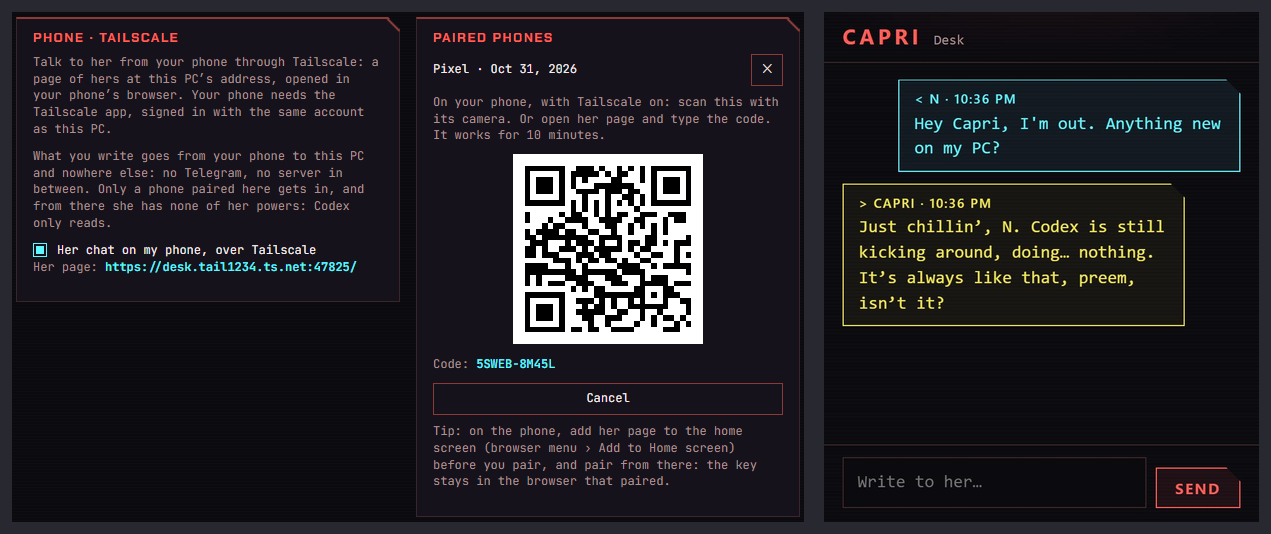
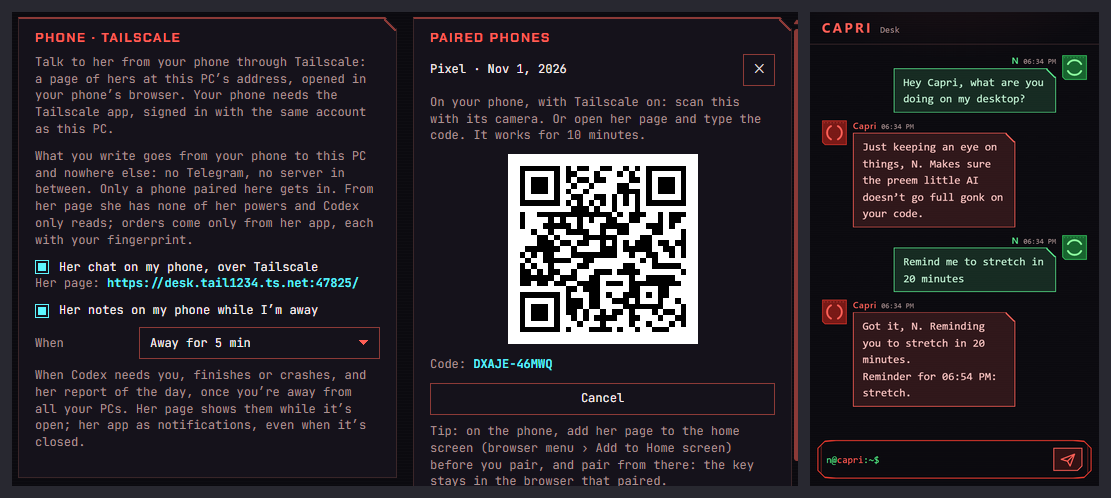
0.4.4-73: README and pictures show her new chat look, and Mainframe's Tailscale card knows her app is here
README.md and README.pl.md: HOLO as calls in her game (red and green, squares, the terminal prompt), the bolt for
an order, her widget's list and LNK count, her app pairing once for the swarm, Erebus under his own square.
New pictures of HOLO, the Tailscale card with her page, and Erebus in HOLO.

Mainframe › TAILSCALE no longer says her app is still to come: orders only from her app, each with your
fingerprint, and her notes as notifications even with it closed (6 languages). HOLO shows Erebus's name once,
not his name and the same badge.

Changed region(s): [[0.0, 0.0, 1.0, 0.994], [0.0306, 0.6627, 0.0612, 0.6928]]

diff --git a/src/main/labels.js b/src/main/labels.js
@@ -97,7 +97,7 @@ const TRAY = {
     holoPocket: 'Ton téléphone, via Tailscale',
     secPocket: 'TÉLÉPHONE · TAILSCALE',
     pocketHow: 'Parle-lui depuis ton téléphone via Tailscale : une page à elle, à l’adresse de ce PC, ouverte dans le navigateur du téléphone. Ton téléphone a besoin de l’app Tailscale, connectée au même compte que ce PC.',
-    pocketPrivacy: 'Ce que tu écris va de ton téléphone à ce PC et nulle part ailleurs : pas de Telegram, pas de serveur entre les deux. Seul un téléphone appairé ici peut entrer, et de là elle n’a aucun de ses pouvoirs : Claude Code ne fait que lire.',
+    pocketPrivacy: 'Ce que tu écris va de ton téléphone à ce PC et nulle part ailleurs : pas de Telegram, pas de serveur entre les deux. Seul un téléphone appairé ici peut entrer. Depuis sa page, elle n’a aucun de ses pouvoirs et Claude Code ne fait que lire ; les ordres ne viennent que de son app, chacun avec ton empreinte.',
     pocketOn: 'Son chat sur mon téléphone, via Tailscale',
     pocketErrNoHttps: 'Ton réseau Tailscale n’a pas encore de certificats HTTPS, et sa page en a besoin.',
     pocketHttpsWhy: 'Active-les une fois dans la console d’administration de Tailscale : DNS › HTTPS Certificates › Enable, puis clique sur Vérifier. Les certificats sont publics : le nom de ce PC sur Tailscale et celui de ton réseau apparaissent dans les journaux de certificats, rien d’autre.',
@@ -112,7 +112,7 @@ const TRAY = {
     pocketPairHow: 'Sur ton téléphone, avec Tailscale activé : scanne ceci avec l’appareil photo. Ou ouvre sa page et tape le code. Valable 10 minutes.',
     pocketCode: 'Code :',
     pocketNotes: 'Ses messages sur mon téléphone quand je suis absent',
-    pocketNotesHow: 'Quand Claude Code a besoin de toi, termine ou plante, et son rapport de la journée, dès que tu es loin de tous tes PC. Pour l’instant, ils s’affichent sur sa page tant qu’elle est ouverte ; son app te préviendra.',
+    pocketNotesHow: 'Quand Claude Code a besoin de toi, termine ou plante, et son rapport de la journée, dès que tu es loin de tous tes PC. Sa page les affiche tant qu’elle est ouverte ; son app en notifications, même fermée.',
     pocketOrders: 'ORDRES DE SON APP',
     pocketOrdersNone: 'Aucun ordre pour l’instant. Son app peut lui en donner, chacun confirmé par ton empreinte.',
     pocketOrderTelegram: 'Me prévenir sur Telegram de chaque ordre',
@@ -252,7 +252,7 @@ const TRAY = {
     holoPocket: 'Your phone, over Tailscale',
     secPocket: 'PHONE · TAILSCALE',
     pocketHow: 'Talk to her from your phone through Tailscale: a page of hers at this PC’s address, opened in your phone’s browser. Your phone needs the Tailscale app, signed in with the same account as this PC.',
-    pocketPrivacy: 'What you write goes from your phone to this PC and nowhere else: no Telegram, no server in between. Only a phone paired here gets in, and from there she has none of her powers: Claude Code only reads.',
+    pocketPrivacy: 'What you write goes from your phone to this PC and nowhere else: no Telegram, no server in between. Only a phone paired here gets in. From her page she has none of her powers and Claude Code only reads; orders come only from her app, each with your fingerprint.',
     pocketOn: 'Her chat on my phone, over Tailscale',
     pocketErrNoHttps: 'Your Tailscale network has no HTTPS certificates yet, and her page needs one.',
     pocketHttpsWhy: 'Turn them on once in Tailscale’s admin console: DNS › HTTPS Certificates › Enable, then press Check. Certificates are public: this PC’s name on Tailscale and your network’s name show in certificate logs, nothing else.',
@@ -267,7 +267,7 @@ const TRAY = {
     pocketPairHow: 'On your phone, with Tailscale on: scan this with its camera. Or open her page and type the code. It works for 10 minutes.',
     pocketCode: 'Code:',
     pocketNotes: 'Her notes on my phone while I’m away',
-    pocketNotesHow: 'When Claude Code needs you, finishes or crashes, and her report of the day, once you’re away from all your PCs. For now they show on her page while it’s open; her app will notify you.',
+    pocketNotesHow: 'When Claude Code needs you, finishes or crashes, and her report of the day, once you’re away from all your PCs. Her page shows them while it’s open; her app as notifications, even when it’s closed.',
     pocketOrders: 'ORDERS FROM HER APP',
     pocketOrdersNone: 'No orders yet. Her app can give her some, each confirmed with your fingerprint.',
     pocketOrderTelegram: 'Tell me on Telegram about each order',
@@ -406,7 +406,7 @@ const TRAY = {
     holoPocket: 'Tu teléfono, por Tailscale',
     secPocket: 'TELÉFONO · TAILSCALE',
     pocketHow: 'Háblale desde tu teléfono por Tailscale: una página suya en la dirección de este PC, abierta en el navegador del teléfono. Tu teléfono necesita la app de Tailscale, con la misma cuenta que este PC.',
-    pocketPrivacy: 'Lo que escribes va de tu teléfono a este PC y a ningún otro sitio: sin Telegram, sin servidor en medio. Solo entra un teléfono emparejado aquí, y desde allí no tiene ninguno de sus poderes: Claude Code solo lee.',
+    pocketPrivacy: 'Lo que escribes va de tu teléfono a este PC y a ningún otro sitio: sin Telegram, sin servidor en medio. Solo entra un teléfono emparejado aquí. Desde su página no tiene ninguno de sus poderes y Claude Code solo lee; las órdenes solo llegan desde su app, cada una con tu huella.',
     pocketOn: 'Su chat en mi teléfono, por Tailscale',
     pocketErrNoHttps: 'Tu red Tailscale aún no tiene certificados HTTPS, y su página necesita uno.',
     pocketHttpsWhy: 'Actívalos una vez en la consola de administración de Tailscale: DNS › HTTPS Certificates › Enable, y luego pulsa Comprobar. Los certificados son públicos: el nombre de este PC en Tailscale y el de tu red aparecen en los registros de certificados, nada más.',
@@ -421,7 +421,7 @@ const TRAY = {
     pocketPairHow: 'En tu teléfono, con Tailscale activado: escanea esto con la cámara. O abre su página y escribe el código. Vale 10 minutos.',
     pocketCode: 'Código:',
     pocketNotes: 'Sus mensajes en mi teléfono cuando no estoy',
-    pocketNotesHow: 'Cuando Claude Code te necesita, termina o falla, y su informe del día, cuando no estás frente a ninguno de tus PC. Por ahora se ven en su página mientras está abierta; su app te avisará.',
+    pocketNotesHow: 'Cuando Claude Code te necesita, termina o falla, y su informe del día, cuando no estás frente a ninguno de tus PC. Su página los muestra mientras está abierta; su app, como notificaciones, incluso cerrada.',
     pocketOrders: 'ÓRDENES DE SU APP',
     pocketOrdersNone: 'Aún no hay órdenes. Su app puede darle alguna, cada una confirmada con tu huella.',
     pocketOrderTelegram: 'Avisarme en Telegram de cada orden',
@@ -561,7 +561,7 @@ const TRAY = {
     holoPocket: 'Seu celular, pelo Tailscale',
     secPocket: 'CELULAR · TAILSCALE',
     pocketHow: 'Fale com ela pelo celular via Tailscale: uma página dela no endereço deste PC, aberta no navegador do celular. O celular precisa do app Tailscale, conectado na mesma conta deste PC.',
-    pocketPrivacy: 'O que você escreve vai do celular para este PC e para mais nenhum lugar: sem Telegram, sem servidor no meio. Só entra um celular pareado aqui, e de lá ela não tem nenhum dos seus poderes: o Claude Code só lê.',
+    pocketPrivacy: 'O que você escreve vai do celular para este PC e para mais nenhum lugar: sem Telegram, sem servidor no meio. Só entra um celular pareado aqui. Pela página dela, ela não tem nenhum dos seus poderes e o Claude Code só lê; ordens só vêm do app dela, cada uma com a sua digital.',
     pocketOn: 'O chat dela no meu celular, pelo Tailscale',
     pocketErrNoHttps: 'Sua rede Tailscale ainda não tem certificados HTTPS, e a página dela precisa de um.',
     pocketHttpsWhy: 'Ative-os uma vez no console de administração do Tailscale: DNS › HTTPS Certificates › Enable, e depois clique em Verificar. Certificados são públicos: o nome deste PC no Tailscale e o da sua rede aparecem nos registros de certificados, nada mais.',
@@ -576,7 +576,7 @@ const TRAY = {
     pocketPairHow: 'No celular, com o Tailscale ligado: escaneie isto com a câmera. Ou abra a página dela e digite o código. Vale por 10 minutos.',
     pocketCode: 'Código:',
     pocketNotes: 'As mensagens dela no meu celular quando eu estiver fora',
-    pocketNotesHow: 'Quando o Claude Code precisa de você, termina ou trava, e o relatório do dia, quando você está longe de todos os seus PCs. Por enquanto aparecem na página dela enquanto ela está aberta; o app dela vai te avisar.',
+    pocketNotesHow: 'Quando o Claude Code precisa de você, termina ou trava, e o relatório do dia, quando você está longe de todos os seus PCs. A página dela mostra enquanto está aberta; o app dela, como notificações, mesmo fechado.',
     pocketOrders: 'ORDENS DO APP DELA',
     pocketOrdersNone: 'Nenhuma ordem ainda. O app dela pode dar alguma, cada uma confirmada com sua digital.',
     pocketOrderTelegram: 'Me avisar no Telegram de cada ordem',
@@ -714,7 +714,7 @@ const TRAY = {
     holoPocket: 'Твой телефон через Tailscale',
     secPocket: 'ТЕЛЕФОН · TAILSCALE',
     pocketHow: 'Говори с ней с телефона через Tailscale: её страница по адресу этого ПК, открытая в браузере телефона. На телефоне нужно приложение Tailscale, вошедшее в тот же аккаунт, что и этот ПК.',
-    pocketPrivacy: 'То, что ты пишешь, идёт с телефона на этот ПК и больше никуда: без Telegram, без сервера посередине. Войти может только телефон, сопряжённый здесь, и оттуда у неё нет её сил: Claude Code только читает.',
+    pocketPrivacy: 'То, что ты пишешь, идёт с телефона на этот ПК и больше никуда: без Telegram, без сервера посередине. Войти может только телефон, сопряжённый здесь. С её страницы у неё нет её сил, и Claude Code только читает; приказы приходят только из её приложения, каждый с твоим отпечатком.',
     pocketOn: 'Её чат на моём телефоне через Tailscale',
     pocketErrNoHttps: 'В твоей сети Tailscale пока нет HTTPS-сертификатов, а её странице он нужен.',
     pocketHttpsWhy: 'Включи их один раз в консоли администратора Tailscale: DNS › HTTPS Certificates › Enable, потом нажми «Проверить». Сертификаты публичны: имя этого ПК в Tailscale и имя твоей сети видны в журналах сертификатов, больше ничего.',
@@ -729,7 +729,7 @@ const TRAY = {
     pocketPairHow: 'На телефоне, с включённым Tailscale: отсканируй это камерой. Или открой её страницу и введи код. Действует 10 минут.',
     pocketCode: 'Код:',
     pocketNotes: 'Её сообщения на телефон, когда меня нет',
-    pocketNotesHow: 'Когда ты нужен Claude Code, он закончил или упал, и её отчёт за день, когда тебя нет ни у одного ПК. Пока они видны на её странице, пока она открыта; её приложение будет присылать уведомления.',
+    pocketNotesHow: 'Когда ты нужен Claude Code, он закончил или упал, и её отчёт за день, когда тебя нет ни у одного ПК. Её страница показывает их, пока открыта; её приложение — уведомлениями, даже закрытое.',
     pocketOrders: 'ПОРУЧЕНИЯ ИЗ ЕЁ ПРИЛОЖЕНИЯ',
     pocketOrdersNone: 'Поручений пока нет. Её приложение может их давать, каждое подтверждено твоим отпечатком.',
     pocketOrderTelegram: 'Сообщать мне в Telegram о каждом поручении',
@@ -868,7 +868,7 @@ const TRAY = {
     holoPocket: 'Twój telefon przez Tailscale',
     secPocket: 'TELEFON · TAILSCALE',
     pocketHow: 'Rozmawiaj z nią z telefonu przez Tailscale: jej strona pod adresem tego PC, otwarta w przeglądarce telefonu. Telefon potrzebuje aplikacji Tailscale, zalogowanej na to samo konto co ten PC.',
-    pocketPrivacy: 'To, co piszesz, idzie z telefonu do tego PC i nigdzie indziej: bez Telegrama, bez serwera pośrodku. Wchodzi tylko telefon sparowany tutaj, a stamtąd Capri nie ma swoich mocy: Claude Code tylko czyta.',
+    pocketPrivacy: 'To, co piszesz, idzie z telefonu do tego PC i nigdzie indziej: bez Telegrama, bez serwera pośrodku. Wchodzi tylko telefon sparowany tutaj. Z jej strony Capri nie ma swoich mocy, a Claude Code tylko czyta; zlecenia przychodzą tylko z jej aplikacji, każde z twoim odciskiem palca.',
     pocketOn: 'Jej czat na moim telefonie, przez Tailscale',
     pocketErrNoHttps: 'Twoja sieć Tailscale nie ma jeszcze certyfikatów HTTPS, a jej strona potrzebuje jednego.',
     pocketHttpsWhy: 'Włącz je raz w konsoli administracyjnej Tailscale: DNS › HTTPS Certificates › Enable, potem kliknij Sprawdź. Certyfikaty są publiczne: nazwa tego PC w Tailscale i nazwa twojej sieci będą widoczne w rejestrach certyfikatów, nic więcej.',
@@ -883,7 +883,7 @@ const TRAY = {
     pocketPairHow: 'Na telefonie, z włączonym Tailscale: zeskanuj to aparatem. Albo otwórz jej stronę i wpisz kod. Działa przez 10 minut.',
     pocketCode: 'Kod:',
     pocketNotes: 'Jej wiadomości na telefonie, gdy mnie nie ma',
-    pocketNotesHow: 'Gdy Claude Code cię potrzebuje, kończy albo się wysypuje, i jej raport z dnia, gdy nie ma cię przy żadnym komputerze. Na razie widać je na jej stronie, kiedy jest otwarta; jej aplikacja będzie powiadamiać.',
+    pocketNotesHow: 'Gdy Claude Code cię potrzebuje, kończy albo się wysypuje, i jej raport z dnia, gdy nie ma cię przy żadnym komputerze. Jej strona pokazuje je, kiedy jest otwarta; jej aplikacja jako powiadomienia, nawet zamknięta.',
     pocketOrders: 'ZLECENIA Z JEJ APLIKACJI',
     pocketOrdersNone: 'Jeszcze żadnego zlecenia. Jej aplikacja może je dawać, każde potwierdzone twoim odciskiem palca.',
     pocketOrderTelegram: 'Informuj mnie na Telegramie o każdym zleceniu',

diff --git a/src/renderer/js/mainframe.js b/src/renderer/js/mainframe.js
@@ -408,7 +408,8 @@ function talkRow(who, bubble, { tag = '', at = 0 } = {}) {
   const you = who === 'you';
   const face = el('img', { class: 'chat-row__face', src: FACES[who], alt: '' });
   const name = who === 'erebus' ? 'EREBUS' : you ? state.capri.userName || state.t.holoYou : 'Capri';
-  const head = el('p', { class: 'chat-row__name' }, name, tag && el('span', { class: 'chat-row__tag' }, tag), at ? el('span', { class: 'chat-row__at' }, when(at)) : null);
+  if (tag === name) tag = ''; // his badge is his name: once is enough
+  const head = el('p', { class: 'chat-row__name' }, name, tag && el('span',{ class: 'chat-row__tag' }, tag), at ? el('span', { class: 'chat-row__at' }, when(at)) : null);
   return el('div', { class: `chat-row chat-row--${who}` }, you ? el('span') : face, el('div', { class: 'chat-row__mid' }, head, bubble), you ? face : el('span'));
 }
 

diff --git a/README.pl.md b/README.pl.md
@@ -24,7 +24,7 @@ wszystko, co opisuje, jest też w tym forku.
 Prawy klik na niej › **Mainframe**. Okno jak menu z gry: zmienisz mu rozmiar, zmaksymalizujesz je i zadokujesz do
 krawędzi, a ono pamięta, gdzie je zostawiłeś, jego rozmiar i zakładkę, na której byłeś.
 
-![Mainframe › HOLO: jej czat, twoje wiadomości po prawej, jej po lewej](docs/fork/mainframe-holo.png)
+![Mainframe › HOLO: jej czat jak połączenia w grze, jej wiadomości na czerwono po lewej, twoje na zielono po prawej, i jej pasek do pisania](docs/fork/mainframe-holo.png)
 
 - **U góry**, jak poziom i street cred w grze: jej poziom, synchronizacja z tobą i dni razem. Pośrodku są zakładki. Po
   prawej, jak zdrowie i pieniądze w grze: model odpowiadający w jej czacie i AI, którego pilnuje (SPOCZYNEK, gdy tylko
@@ -34,7 +34,7 @@ krawędzi, a ono pamięta, gdzie je zostawiłeś, jego rozmiar i zakładkę, na 
 
 | Zakładka | Co w niej jest |
 |---|---|
-| **HOLO** | Jak wiadomości w grze. **CAPRI**: jej czat, ta sama rozmowa co w jej panelu (i na Telegramie); możesz do niej pisać także stąd. Jej odpowiedź pojawia się na bieżąco, a to, o co prosisz wprost (przypomnienie, muzyka, aplikacja z nazwy), się dzieje. Obok jest wszystko inne, co ci powiedziała na tym komputerze: Claude, Codex, przypomnienia, twój komputer. Najstarsze na górze, najnowsze na dole; `>` oznacza to, co przyszło od niej, `<` to, co piszesz ty, pod twoim imieniem (ENGRAMS › Twoje imię), także twoje polecenia dla Claude albo Codexa, przed jej komentarzem do nich. Nie ma tu drobnych tekstów z animacji (gwiazda, satelita, rzucanie nią). **TELEGRAM**: twój telefon. |
+| **HOLO** | Jak wiadomości w grze. **CAPRI**: jej czat, ta sama rozmowa co w jej panelu (i na Telegramie); możesz do niej pisać także stąd. Jej odpowiedź pojawia się na bieżąco, a to, o co prosisz wprost (przypomnienie, muzyka, aplikacja z nazwy), się dzieje. Obok jest wszystko inne, co ci powiedziała na tym komputerze: Claude, Codex, przypomnienia, twój komputer. Najstarsze na górze, najnowsze na dole, jak połączenia w grze: jej wiadomości na czerwono po lewej, pod jej kwadratem, a twoje na zielono po prawej, pod twoim imieniem (ENGRAMS › Twoje imię), także twoje polecenia dla Claude albo Codexa, przed jej komentarzem do nich. Piszesz po znaku zachęty jak w terminalu (`n@capri:~$`). Nie ma tu drobnych tekstów z animacji (gwiazda, satelita, rzucanie nią). **TELEGRAM** i **TAILSCALE**: twój telefon. |
 | **NETWATCH** | Kto odpowiada w jej czacie (model na twoim PC, w sieci albo Claude Code / Codex) i co pokazuje czat. Asystent, którego pilnuje w terminalu, i jego hooki. Gdy w czacie odpowiada Claude Code albo Codex: jego folder, uprawnienia, jak długo myśli Codex i **Blackwall Gateway**, czyli jej własne moce razem z nim (aplikacje, strony, muzyka). |
 | **ENGRAMS** | Wasza więź, twoje imię (jak cię nazywa i jak jesteś podpisany w HOLO), jej persona, przypomnienia i to, co pamięta, z komputerem, na którym to powiedziałeś. |
 | **RELIC** | Jej ciało (rozmiar, gdzie odpoczywa, ekran, skrót do chowania, jak się zachowuje, jak bardzo jest gadatliwa) i jej rój. |
@@ -129,6 +129,9 @@ wpisywania za każdym razem.
 
 ![Mainframe › HOLO › TAILSCALE ze sparowanym telefonem i kodem QR dla kolejnego, obok jej strona na telefonie](docs/fork/pocket.png)
 
+Jej strona, aplikacja i widżet wyglądają jak HOLO: jej czat jak połączenia w grze, jej wiadomości na czerwono, twoje na
+zielono, i jej pasek ze znakiem zachęty jak w terminalu.
+
 **Konfiguracja**
 
 1. Zainstaluj Tailscale na tym komputerze (`install.ps1 -Tailscale`) i na telefonie (App Store albo Google Play)
@@ -170,7 +173,7 @@ komputerze znają wszystkie, a odłączenie go na którymkolwiek odłącza go ws
 połowy jego kluczy, więc nic tajnego nie opuszcza żadnego komputera.
 
 Przeglądarka trzyma jednak jeden klucz na adres. Dlatego stronę sparuj raz na każdym komputerze, do którego chcesz
-wchodzić z telefonu. Jej aplikacja, kiedy powstanie, sparuje się raz dla wszystkich.
+wchodzić z telefonu. Jej aplikacja paruje się raz dla wszystkich (niżej).
 
 **Jej wiadomości, gdy cię nie ma**
 
@@ -195,7 +198,7 @@ albo Codex zmieniające pliki w swoim folderze.
 - **Otwiera ją twój odcisk palca.** Klucz aplikacji jest w bezpiecznym sprzęcie telefonu (Android Keystore) i da się go
   użyć tylko zaraz po odcisku palca, raz na użycie. Otwarcie aplikacji podpisuje jedno wyzwanie i daje sesję do rozmowy,
   która tylko czyta, jak na jej stronie. Odłożona aplikacja się blokuje, a jej sesja kończy.
-- **Każde zlecenie to znów twój odcisk.** Zaznacz **Zlecenie**, a jej klucz podpisze to zlecenie, słowo w słowo, z własnym
+- **Każde zlecenie to znów twój odcisk.** Stuknij błyskawicę na jej pasku (zapala się na żółto) i wyślij, a jej klucz podpisze to zlecenie, słowo w słowo, z własnym
   wyzwaniem. Capri sprawdza podpis i robi to, jakbyś napisał to przy komputerze.
 - **Zlecenia daje tylko jej aplikacja.** Jej strona w przeglądarce i Telegram tylko rozmawiają.
 - **Klucz aplikacji poświadcza Google.** Przy parowaniu bezpieczny sprzęt telefonu podpisuje łańcuch certyfikatów
@@ -248,8 +251,10 @@ komputerami. To, co zrobiła, wraca razem z jej odpowiedzią („Legion: Chrome:
 - Za pierwszym razem Android poprosi o zgodę na jej powiadomienia i na działanie bez ograniczeń baterii. Bez tego
   wiadomości przyjdą przy najbliższym wybudzeniu telefonu, z kilkuminutowym opóźnieniem.
 - Na zablokowanym telefonie powiadomienie pokazuje, że napisała, ale nie co.
-- **Jej widżet** (przytrzymaj ekran główny › Widżety › Capri) pokazuje ostatnie, co powiedziała: odpowiedź albo
-  wiadomość. **Napisz** otwiera aplikację, jak zawsze po twoim odcisku palca.
+- **Jej widżet** (przytrzymaj ekran główny › Widżety › Capri) pokazuje jej czat jak aplikacja: tyle ostatnich wiadomości,
+  ile się zmieści, odpowiedzi i wiadomości spod nieobecności, najstarsze znikają u góry. **LNK//02** na jego pasku to
+  liczba twoich komputerów, na których Capri teraz odpowiada. Dymek otwiera aplikację, jak zawsze po twoim odcisku
+  palca; słuchawka będzie do rozmowy z nią, gdy dostanie do tego głos.
 
 Dodanie nowego odcisku palca w telefonie kończy jej klucz: sparuj aplikację ponownie. Wersja aplikacji jest w jej prawym
 górnym rogu.
@@ -341,14 +346,14 @@ Nowe rysunki Capri w stylu z serialu, którymi na ten czas zastępuje swoją ani
   o konstrukt (Capri się przebija, glitche, ekran rozdarty wokół niej, wyciekające z niej czerwone dane). Okno, którym
   się zajmuje, płonie tak, jak Blackwall pali ludzi: uderza w nie czerwony słup, robi się czarno-czerwone, miga
   i rozdziera się. Erebus mówi, chłodno i z wyższością. Potem jej LÓD go wyrzuca; złapanie jej też. W tym czasie jej
-  twarz w dymku jest jego, a to, co mówi, trafia też do HOLO, w czerwonej ramce. Przy ograniczonych animacjach nic
+  twarz w dymku jest jego, a to, co mówi, trafia też do HOLO, na czerwono pod jego własnym kwadratem. Przy ograniczonych animacjach nic
   z tego; odznacz *Erebus może ją opętać* w Mainframe › RELIC, żeby go nie wpuszczać.
 
 ![Znudzona: ręka na biodrze, skrzyżowane ręce, zabawa pazurami, siad po turecku w powietrzu](docs/fork/poses.png)
 
 ![Teleport nad edytorem kodu: ekran rozdarty tam, gdzie znika, słup, przez który przechodzi, i znowu rozdarcie tam, gdzie ląduje](docs/fork/teleport.png)
 
-![Erebus ją ma: jego twarz w jej dymku i przekreślone jej imię; w HOLO jego kwestie w czerwonej ramce](docs/fork/erebus.png)
+![Erebus ją ma: jego twarz w jej dymku i przekreślone jej imię; w HOLO jego kwestie pod jego własnym kwadratem](docs/fork/erebus.png)
 
 ### Drobniejsze rzeczy
 

diff --git a/README.md b/README.md
@@ -24,7 +24,7 @@ everything it describes is in this fork too.
 Right-click her › **Mainframe**. A window like her game's menus: you can resize it, maximize it and snap it, and it
 remembers where you left it, its size and the tab you were on.
 
-![Mainframe › HOLO: her chat, your messages on the right, hers on the left](docs/fork/mainframe-holo.png)
+![Mainframe › HOLO: her chat as calls in her game, hers in red on the left, yours in green on the right, and her bar to write in](docs/fork/mainframe-holo.png)
 
 - **At the top**, like a game's level and street cred: her level, her sync with you and your days together. In the
   middle are the tabs. At the right, like a game's health and money: the model answering her chat, and the AI she watches
@@ -34,7 +34,7 @@ remembers where you left it, its size and the tab you were on.
 
 | Tab | What's in it |
 |---|---|
-| **HOLO** | Like her game's messages. **CAPRI**: her chat, the same conversation as in her panel (and on Telegram), to write to her from here too. Her answer streams in, and what you ask plainly (a reminder, the music, an app you name) happens. Next to it is everything else she told you on this PC: Claude, Codex, reminders, your PC. Oldest on top, newest at the bottom; `>` marks what came from her, `<` what you sent, under your name (ENGRAMS › Your name), your prompts to Claude or Codex too, before what she said about them. Her little lines from her animations (the star, the satellite, being thrown around) aren't there. **TELEGRAM**: your phone. |
+| **HOLO** | Like her game's messages. **CAPRI**: her chat, the same conversation as in her panel (and on Telegram), to write to her from here too. Her answer streams in, and what you ask plainly (a reminder, the music, an app you name) happens. Next to it is everything else she told you on this PC: Claude, Codex, reminders, your PC. Oldest on top, newest at the bottom, like calls in her game: hers in red on the left, under her square, and yours in green on the right, under your name (ENGRAMS › Your name), your prompts to Claude or Codex too, before what she said about them. You write after a prompt as in a terminal (`n@capri:~$`). Her little lines from her animations (the star, the satellite, being thrown around) aren't there. **TELEGRAM** and **TAILSCALE**: your phone. |
 | **NETWATCH** | Who answers her chat (a model on your PC, online, or Claude Code / Codex) and what her chat shows. The assistant she watches in your terminal, and its hooks. With Claude Code or Codex in her chat: its folder, its permissions, how long Codex thinks, and **Blackwall Gateway**, her own powers with it (apps, sites, music). |
 | **ENGRAMS** | Your bond, your name (what she calls you, and you in HOLO), her persona, her reminders, and what she remembers, with the PC it was said on. |
 | **RELIC** | Her body (her size, where she rests, her screen, her shortcut, how she acts, how chatty she is) and her swarm. |
@@ -126,6 +126,9 @@ code to type each time.
 
 ![Mainframe › HOLO › TAILSCALE with a phone paired and a QR code for another, and her page on the phone](docs/fork/pocket.png)
 
+Her page, her app and her widget look like HOLO: her chat as calls in her game, hers in red, yours in green, and her
+bar with a prompt as in a terminal.
+
 **Setting it up**
 
 1. Install Tailscale on this PC (`install.ps1 -Tailscale`) and on your phone (App Store or Google Play), and sign in on
@@ -163,8 +166,8 @@ Each PC has a page of its own, at its own address, and all of them share her one
 to all of them, and unpairing it on any of them unpairs it everywhere. Only the public halves of its keys go across, so
 nothing secret leaves a PC.
 
-A browser keeps one key per address, though. So pair her page once on each PC you want to reach from the phone. Her app,
-when it comes, will pair once for all of them.
+A browser keeps one key per address, though. So pair her page once on each PC you want to reach from the phone. Her app
+pairs once for all of them (below).
 
 **Her notes while you're away**
 
@@ -188,7 +191,7 @@ PC. That means her powers (opening apps, music, reminders), and Claude Code or C
 - **Your fingerprint opens it.** Her app's key lives in the phone's secure hardware (Android Keystore) and can be used
   only right after your fingerprint, once per use. Opening the app signs one challenge and gets a session for talking,
   which only reads, as on her page. Put away, the app locks, and its session ends.
-- **Each order takes your fingerprint again.** Tick **Order**, and her key signs that order, word for word, with a
+- **Each order takes your fingerprint again.** Tap the bolt on her bar (it lights up yellow) and send, and her key signs that order, word for word, with a
   challenge of its own. Capri checks the signature, and does it as if you'd typed it at the PC.
 - **Only her app gives orders.** Her page in a browser and Telegram only talk.
 - **Google vouches for her app's key.** When the app pairs, the phone's secure hardware signs a certificate chain for the
@@ -238,8 +241,10 @@ switch. Her swarm still never carries an order from one PC to another. What she 
 - The first time, Android asks to allow her notifications and to let her run unrestricted on battery. Without that,
   notes come with the phone's next wake-up, minutes late.
 - On a locked phone, a notification shows that she wrote, not what.
-- **Her widget** (hold the home screen › Widgets › Capri) shows the last thing she said, an answer or a note. **Write**
-  opens the app, behind your fingerprint as always.
+- **Her widget** (hold the home screen › Widgets › Capri) shows her chat as her app does: as many of the last messages as
+  fit, answers and notes, the oldest fading out at the top. **LNK//02** on its bar counts your PCs with Capri answering
+  now. The speech bubble opens the app, behind your fingerprint as always; the handset will be for talking to her, once she
+  has a voice for it.
 
 Adding a new fingerprint on the phone ends her key: pair the app again. The app's version is in its top right corner.
 
@@ -327,14 +332,14 @@ New drawings of her in the show's style, swapped in for her rigged cut-out while
   through, glitches, the screen torn around her, red data leaking out of her). The window she deals with gets burnt
   the way the Blackwall burns people: struck by a red column, black and red, strobing and torn. He talks, cold and
   superior. Then her ICE throws him out; grabbing her does too. Meanwhile her face in her panel is his, and what he
-  says goes to HOLO too, framed in red. With reduced motion, none of it; untick *Erebus can take her over* in
+  says goes to HOLO too, in red under his own square. With reduced motion, none of it; untick *Erebus can take her over* in
   Mainframe › RELIC to keep him out.
 
 ![Bored: a hand on her hip, her arms crossed, fiddling with her claws, sitting cross-legged in the air](docs/fork/poses.png)
 
 ![A teleport across a code editor: the screen torn where she leaves, the column she goes through, torn again where she lands](docs/fork/teleport.png)
 
-![Erebus has her: his face in her panel and her name struck out; in HOLO, his lines framed in red](docs/fork/erebus.png)
+![Erebus has her: his face in her panel and her name struck out; in HOLO, his lines under his own square](docs/fork/erebus.png)
 
 ### Smaller things
 
